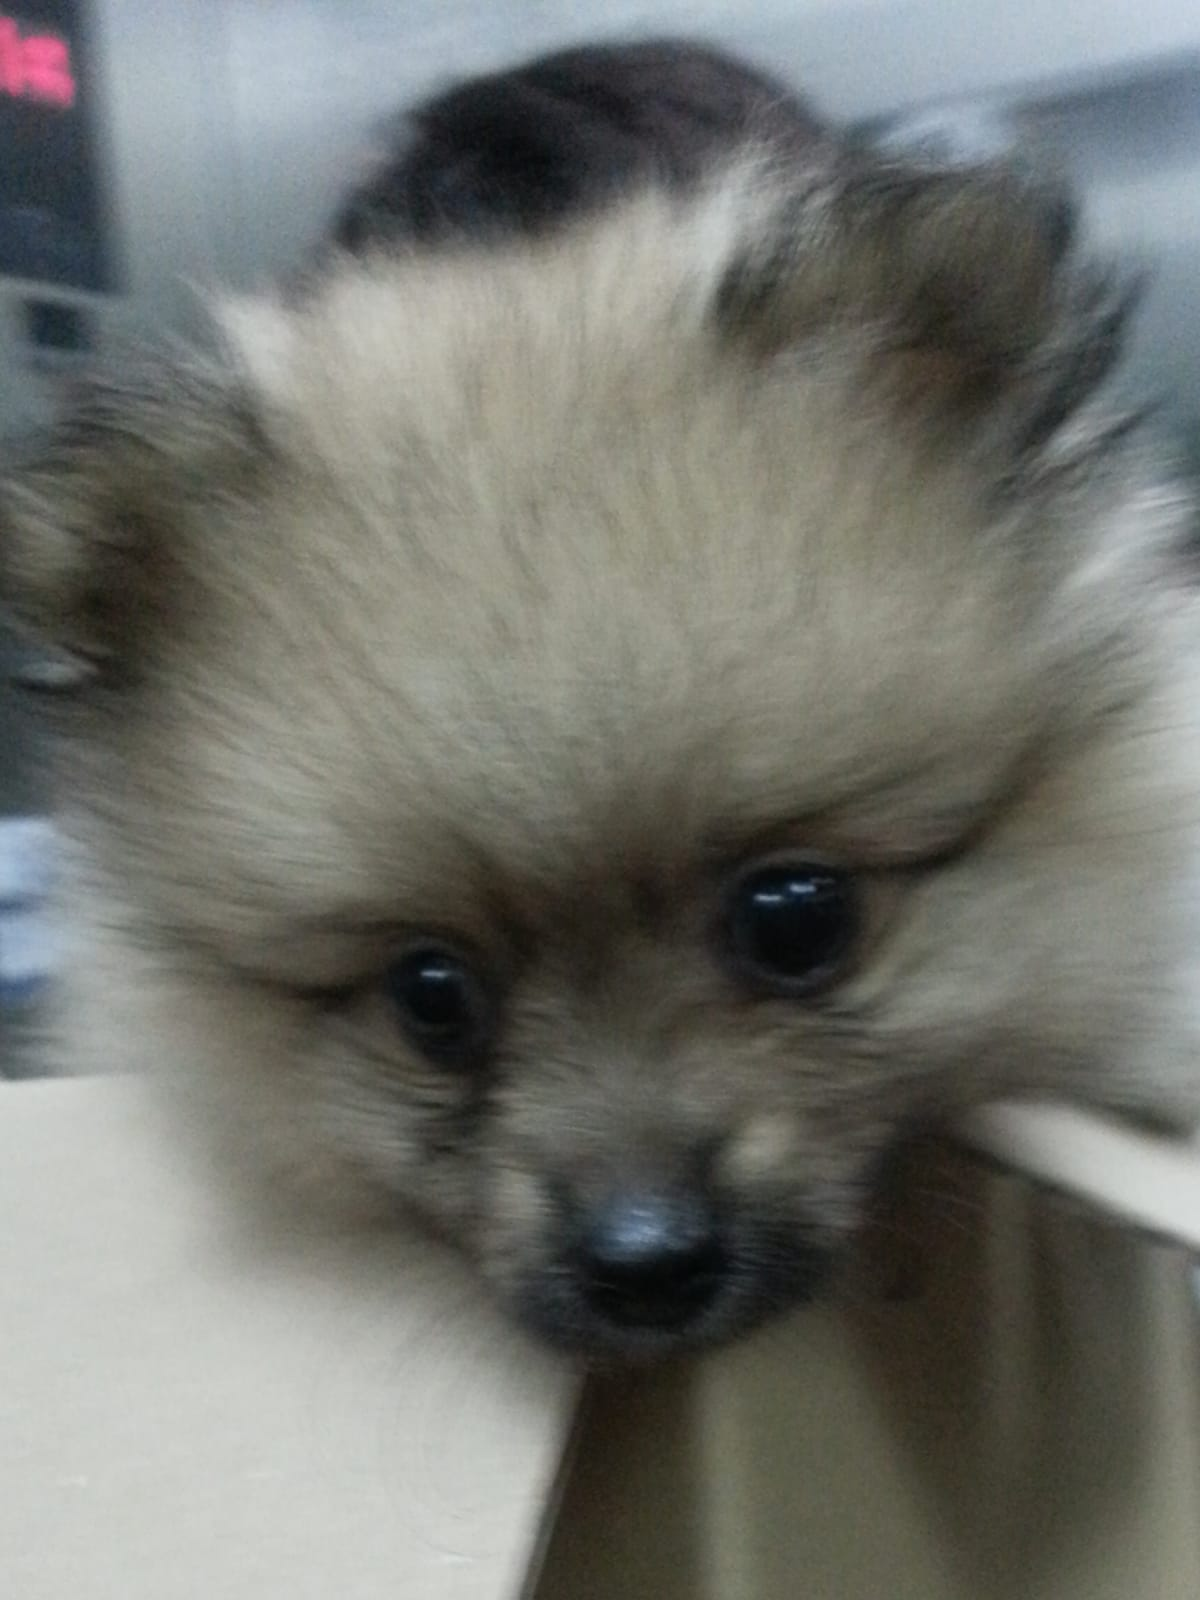
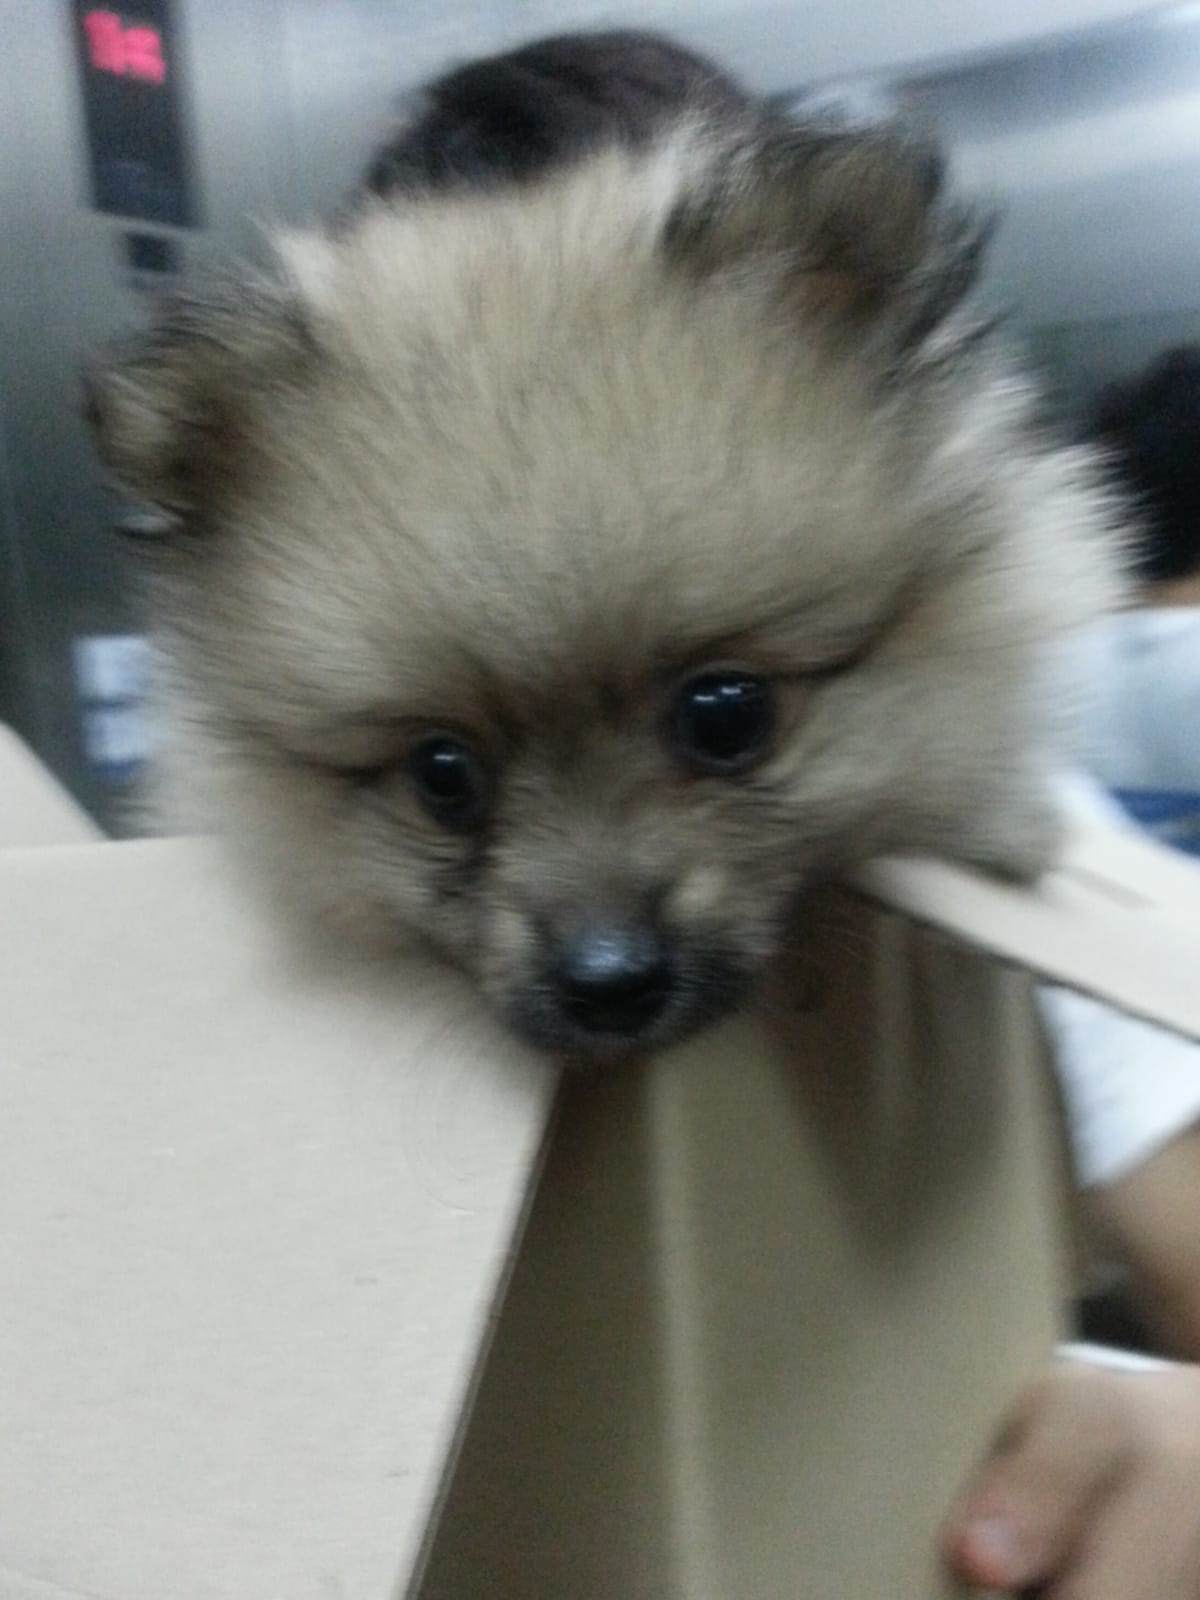
fix: 상자 속 아기 사진 귀가 잘리지 않게

diff --git a/lib/gallery.ts b/lib/gallery.ts
@@ -13,6 +13,8 @@ export type Photo = {
   height: number;
   /** 찍은 달 (예: "2019-05"). 모르면 없다. */
   taken?: string;
+  /** 정사각형 칸처럼 더 자를 때 남길 쪽. 귀가 사진 맨 위에 닿은 사진은 "top" 으로 귀가 잘리지 않게 한다. */
+  focus?: "top";
 };
 
 export type SceneId =
@@ -44,7 +46,7 @@ export type GalleryScene = {
 const size = { width: 1200, height: 1600 };
 
 /** 파일 이름은 scripts/resize-photos.mjs 의 표와 같아야 한다. */
-function photo(file: string, alt: string): Photo {
+function photo(file: string, alt: string, { focus }: { focus?: Photo["focus"] } = {}): Photo {
   const taken = takenDates[file];
   return {
     id: file,
@@ -52,6 +54,7 @@ function photo(file: string, alt: string): Photo {
     alt,
     ...size,
     ...(taken ? { taken } : {}),
+    ...(focus ? { focus } : {}),
   };
 }
 
@@ -93,7 +96,7 @@ const scenes: GalleryScene[] = [
       photo("gallery-112", "마룻바닥에 엎드려 손가락에 코를 대는 아기 차돌이"),
       photo("gallery-83", "마룻바닥에 얌전히 앉아 아래를 내려다보는 아기 차돌이"),
       photo("gallery-85", "하얀 바닥에 앉아 이쪽을 보는 솜뭉치 같은 아기 차돌이"),
-      photo("gallery-121", "종이 상자 밖으로 얼굴을 내민 아기 차돌이"),
+      photo("gallery-121", "종이 상자 밖으로 얼굴을 내민 아기 차돌이", { focus: "top" }),
       photo("gallery-81", "까만 눈으로 이쪽을 가만히 바라보는 어린 차돌이 얼굴"),
       photo("gallery-122", "벌러덩 누워 보호자 손을 꼭 잡은 아기 차돌이"),
       photo("gallery-123", "얼룩말 무늬 담요 앞에서 올려다보는 어린 차돌이"),

diff --git a/components/ui/Photo.tsx b/components/ui/Photo.tsx
@@ -30,7 +30,14 @@ export function Photo({ photo, sizes, ratio = "3/4", caption, preload = false, c
   return (
     <figure className={className}>
       <div className={`relative ${ratioClass[ratio]} ${photoShape}`}>
-        <Image src={photo.src} alt={photo.alt} fill preload={preload} sizes={sizes} className="object-cover" />
+        <Image
+          src={photo.src}
+          alt={photo.alt}
+          fill
+          preload={preload}
+          sizes={sizes}
+          className={photo.focus === "top" ? "object-cover object-top" : "object-cover"}
+        />
       </div>
       {caption ? <figcaption className="mt-3 break-keep text-base text-brown">{caption}</figcaption> : null}
     </figure>

diff --git a/components/moments/PhotoViewer.tsx b/components/moments/PhotoViewer.tsx
@@ -296,7 +296,13 @@ export function PhotoButton({ photo, sizes, className = "" }: PhotoButtonProps) 
       aria-label={`${photo.alt} 사진 크게 보기`}
       className={`relative w-full cursor-zoom-in ${photoShape} ${className}`}
     >
-      <Image src={photo.src} alt={photo.alt} fill sizes={sizes} className="object-cover" />
+      <Image
+        src={photo.src}
+        alt={photo.alt}
+        fill
+        sizes={sizes}
+        className={photo.focus === "top" ? "object-cover object-top" : "object-cover"}
+      />
     </button>
   );
 }

diff --git a/CLAUDE.md b/CLAUDE.md
@@ -137,6 +137,7 @@ public/images/        home/ diary/ friends/
   - 영문: Jost (next/font/google, `font-serif`). 로고(CHADOLL), 서브타이틀(이탤릭), 섹션 위 라벨(`Kicker`), 메뉴, 숫자에만 쓴다. 숫자는 `lining-nums`. 영문 글꼴 안에 섞인 한글(예: "4,503일"의 "일")은 SUIT로 보인다.
 - 섹션 제목 구조: 영문 라벨(`Kicker`, 메뉴 이름과 같은 단어만) → 한글 제목 → 본문 → 사진. 장식용 영문 문구는 더하지 않는다.
 - 사진은 원본(3:4)을 기준으로 배치에 맞춰 3:4 · 4:5 · 1:1로 자른다(`components/ui/Photo.tsx`의 `ratio`). 푸터 사진만 가로 3:2(`ratio="wide"`, 데스크톱에서는 옆 글 높이에 맞춤)로 쓰고, 파일은 `resize-photos.mjs`의 `FAREWELL`로 따로 만든다. 테두리·그림자 없이 모서리만 아주 살짝(3px).
+- 자를 때 차돌이(귀 끝·턱·발)가 잘리면 안 된다. 귀가 사진 맨 위에 닿은 사진은 `lib/gallery.ts`에서 `photo(..., { focus: "top" })`으로 정사각형 칸에서도 위쪽부터 보이게 한다.
 - 큰 사진과 작은 사진의 크기를 분명히 다르게 하고, 같은 모양 카드를 반복하지 않는다.
 - 그림자·블러·그라데이션·둥근 카드 반복·스크롤 애니메이션·과한 아이콘은 쓰지 않는다.
 - 섹션마다 배치를 다르게 하고 왼쪽 정렬을 기본으로 한다.
